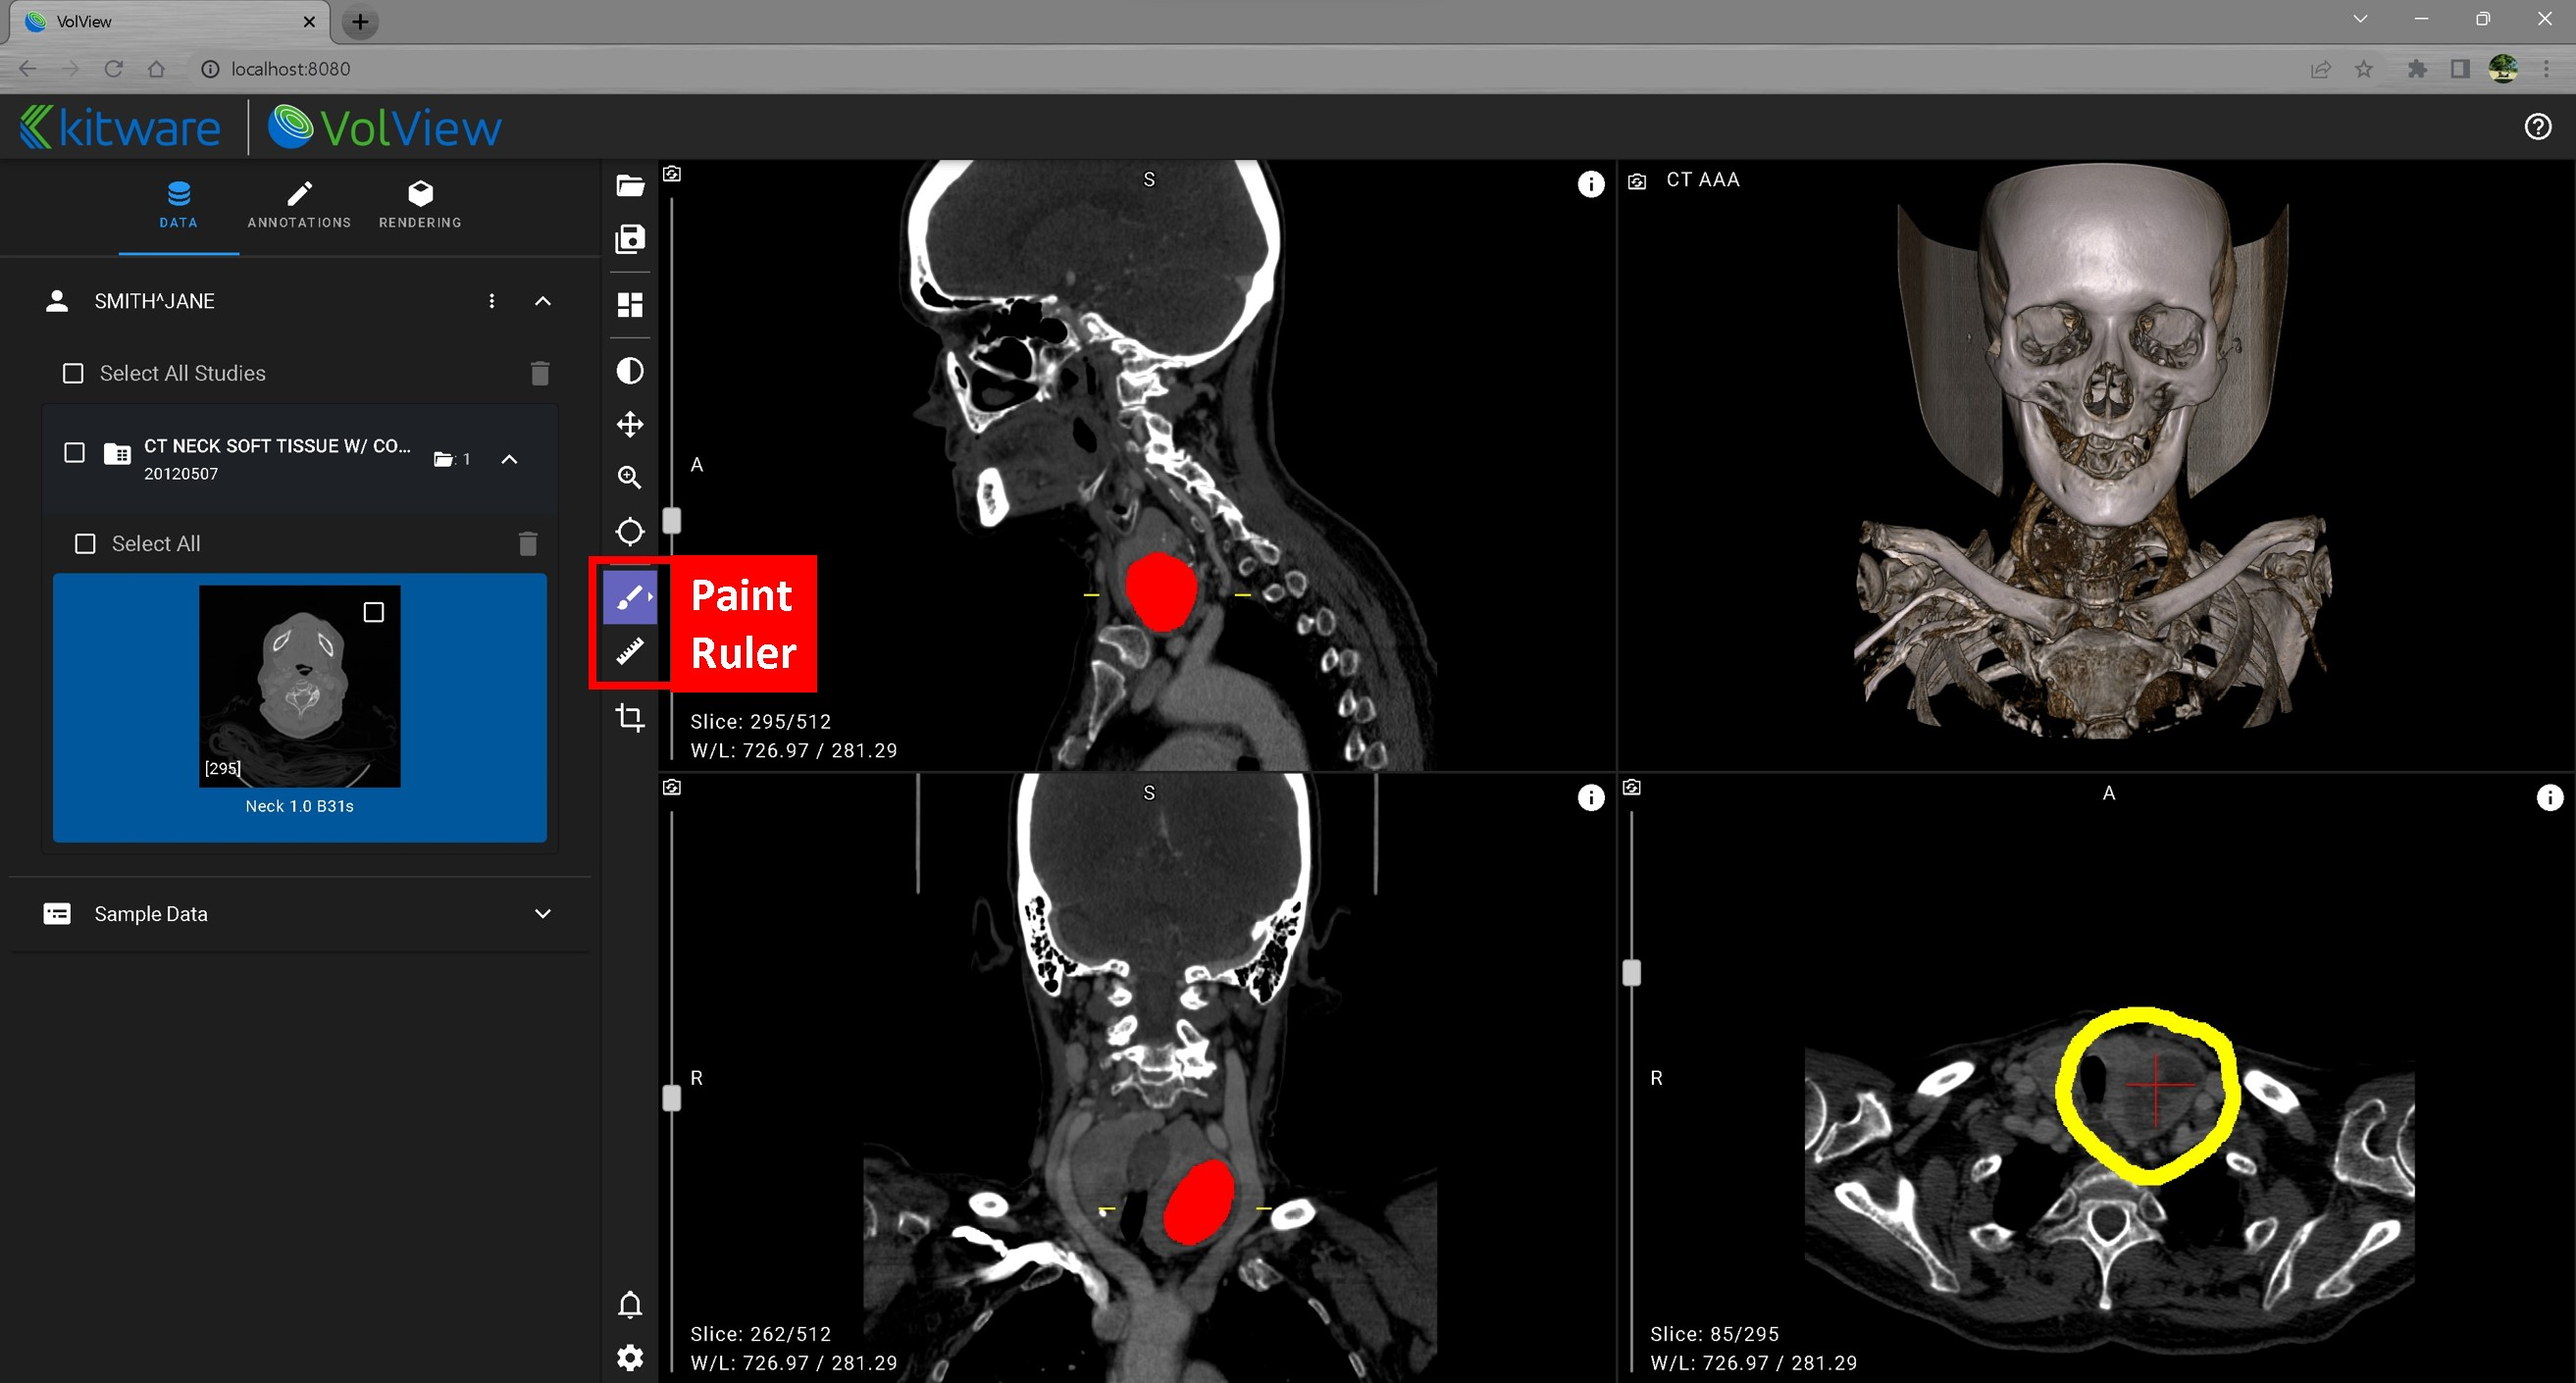
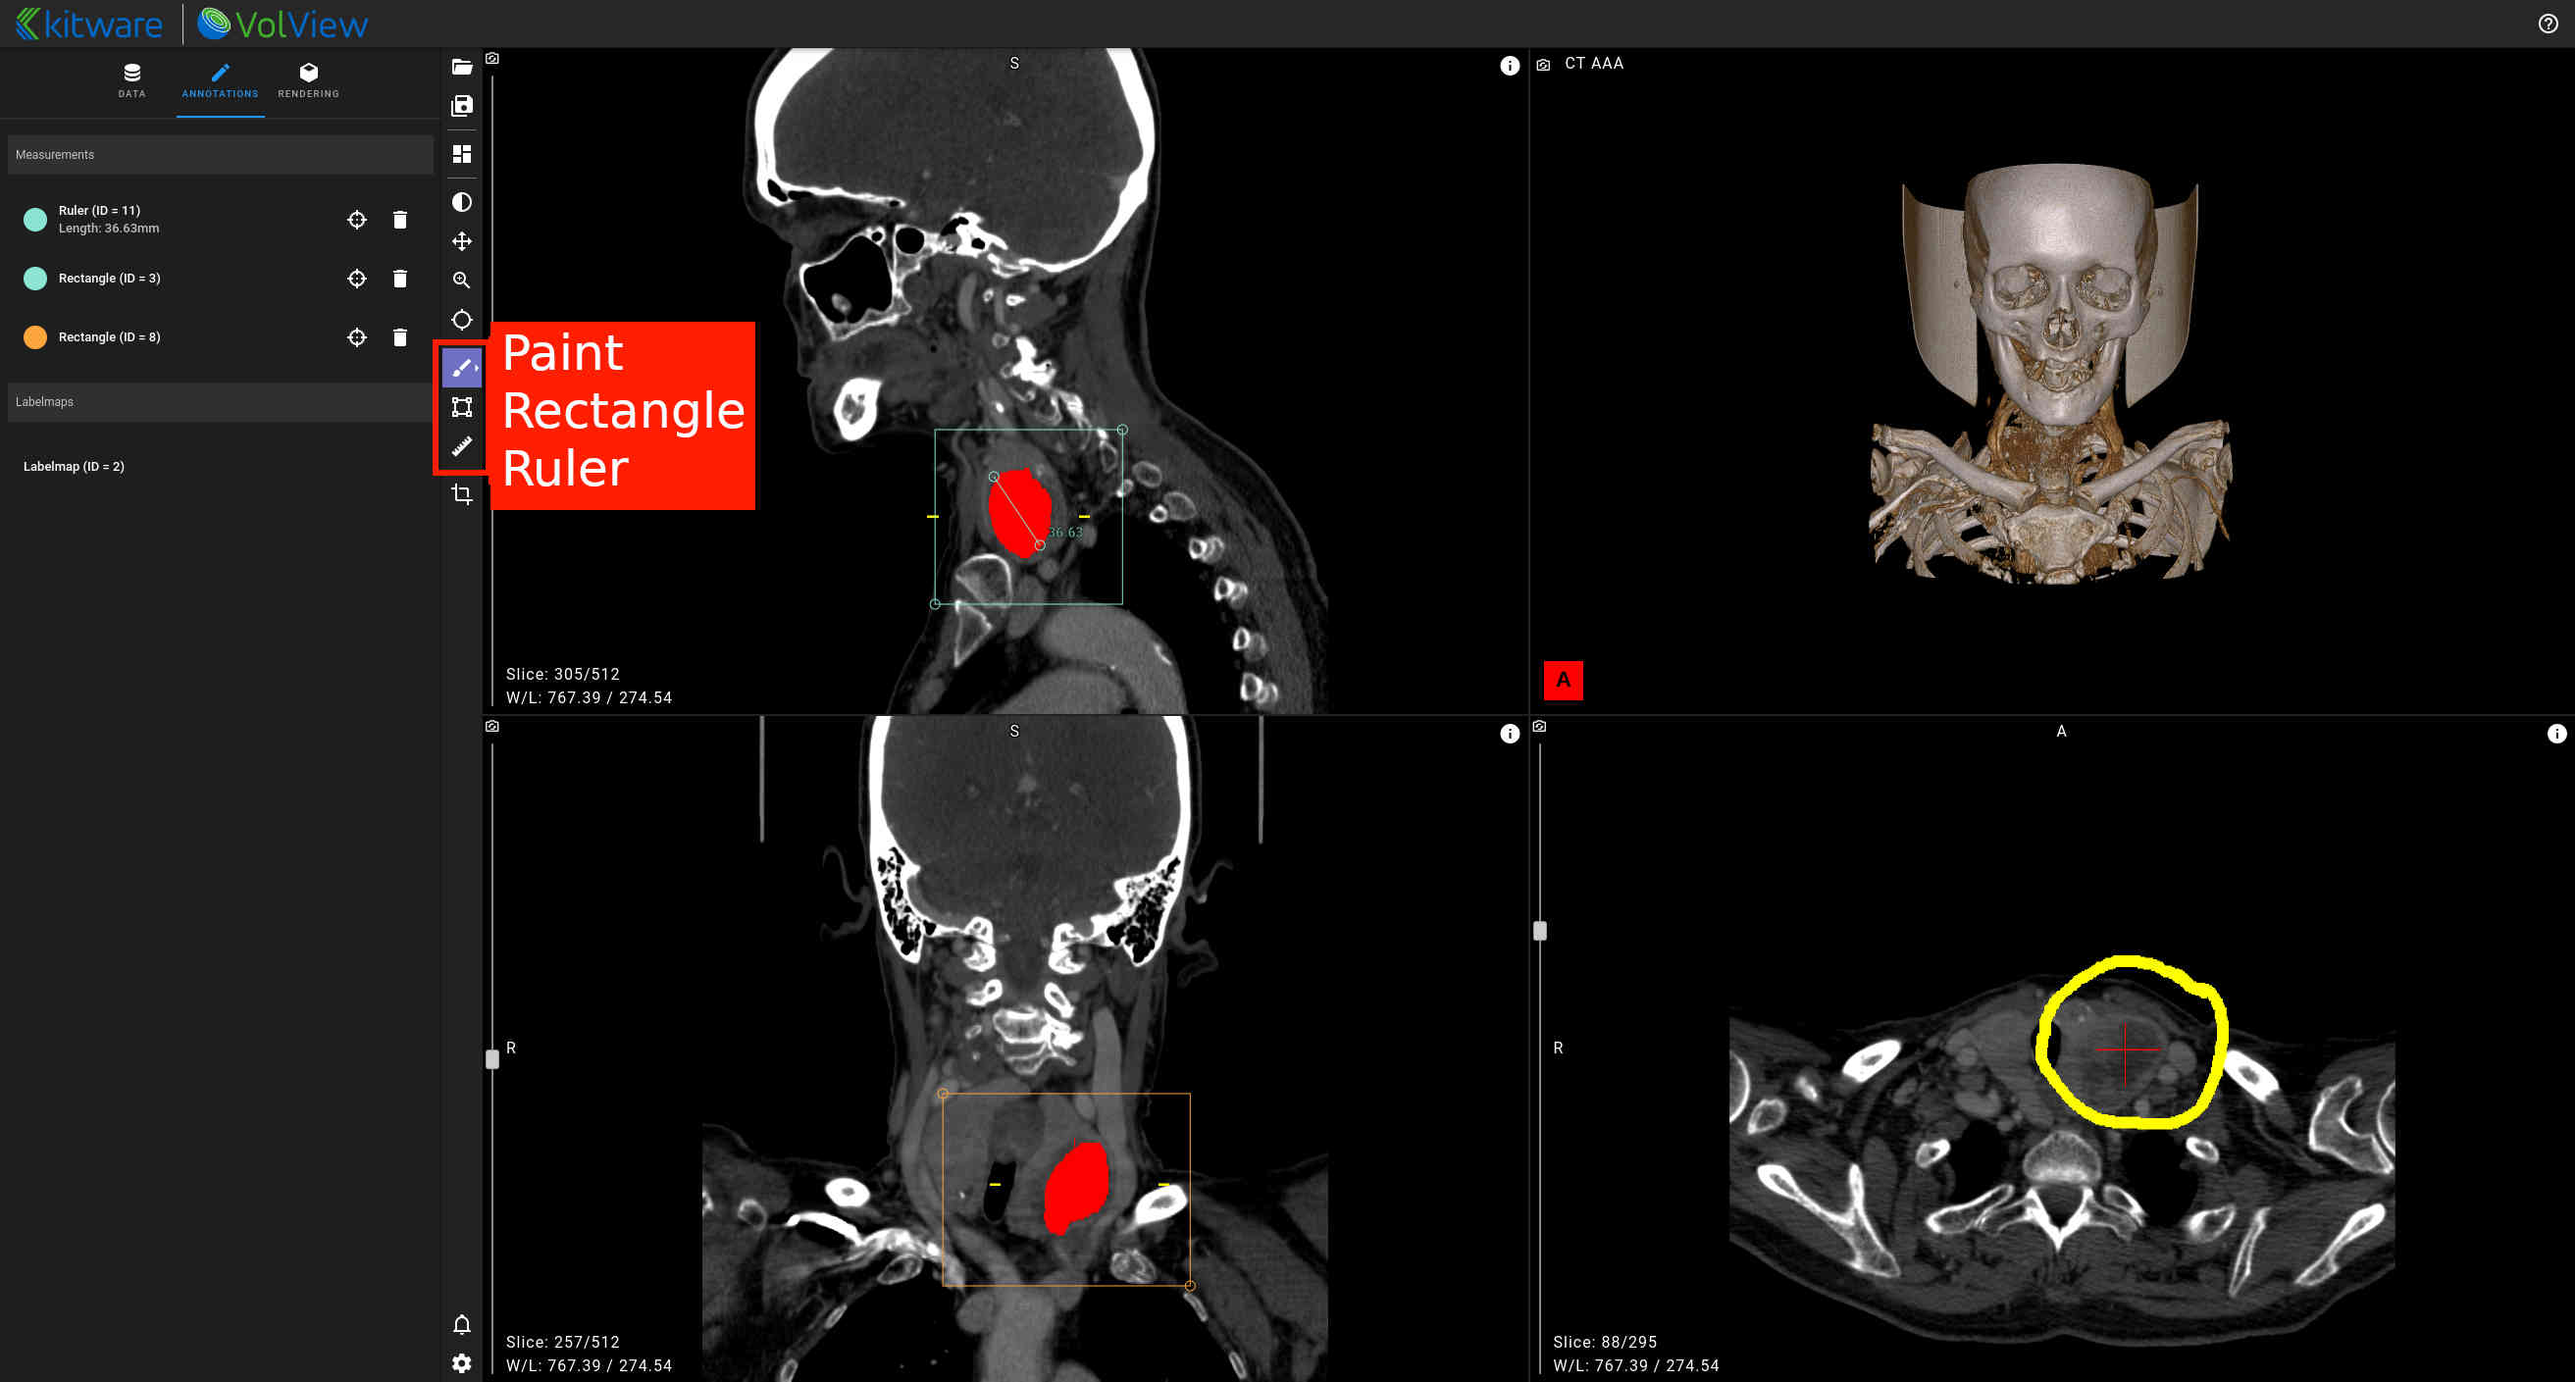
doc(toolbar): add rectangle tool

diff --git a/documentation/content/doc/toolbar.md b/documentation/content/doc/toolbar.md
@@ -16,7 +16,13 @@ When the paint tool is selected, you can paint in any 2D window. Click on the pa
 
 ### Ruler
 
-When the ruler tool selected, the left mouse button is used to place and adjust ruler end-markers. Right clicking on a end-marker displays a pop-up menu for deleting that ruler. Switch to the "Annotations" tab to see a list of annotations made to currently loaded data. Select the location icon next to a listed ruler to jump to its slice. Select the trashcan to delete that ruler. ![Paint and Ruler](../gallery/11-volview-paint-notes.jpg)
+When the ruler tool selected, the left mouse button is used to place and adjust ruler end-markers. Right clicking on a end-marker displays a pop-up menu for deleting that ruler. Switch to the "Annotations" tab to see a list of annotations made to currently loaded data. Select the location icon next to a listed ruler to jump to its slice. Select the trashcan to delete that ruler.
+
+### Rectangle
+
+When the rectangle tool selected, the left mouse button is used to place and adjust rectangle control points. Right click a rectangle end-marker to delete it. The "Annotations" tab lists all rectangles and provides jump-to, color editing, and delete controls.
+
+![2D Annotations](../gallery/11-volview-paint-notes.jpg)
 
 ## 3D Crop
 
